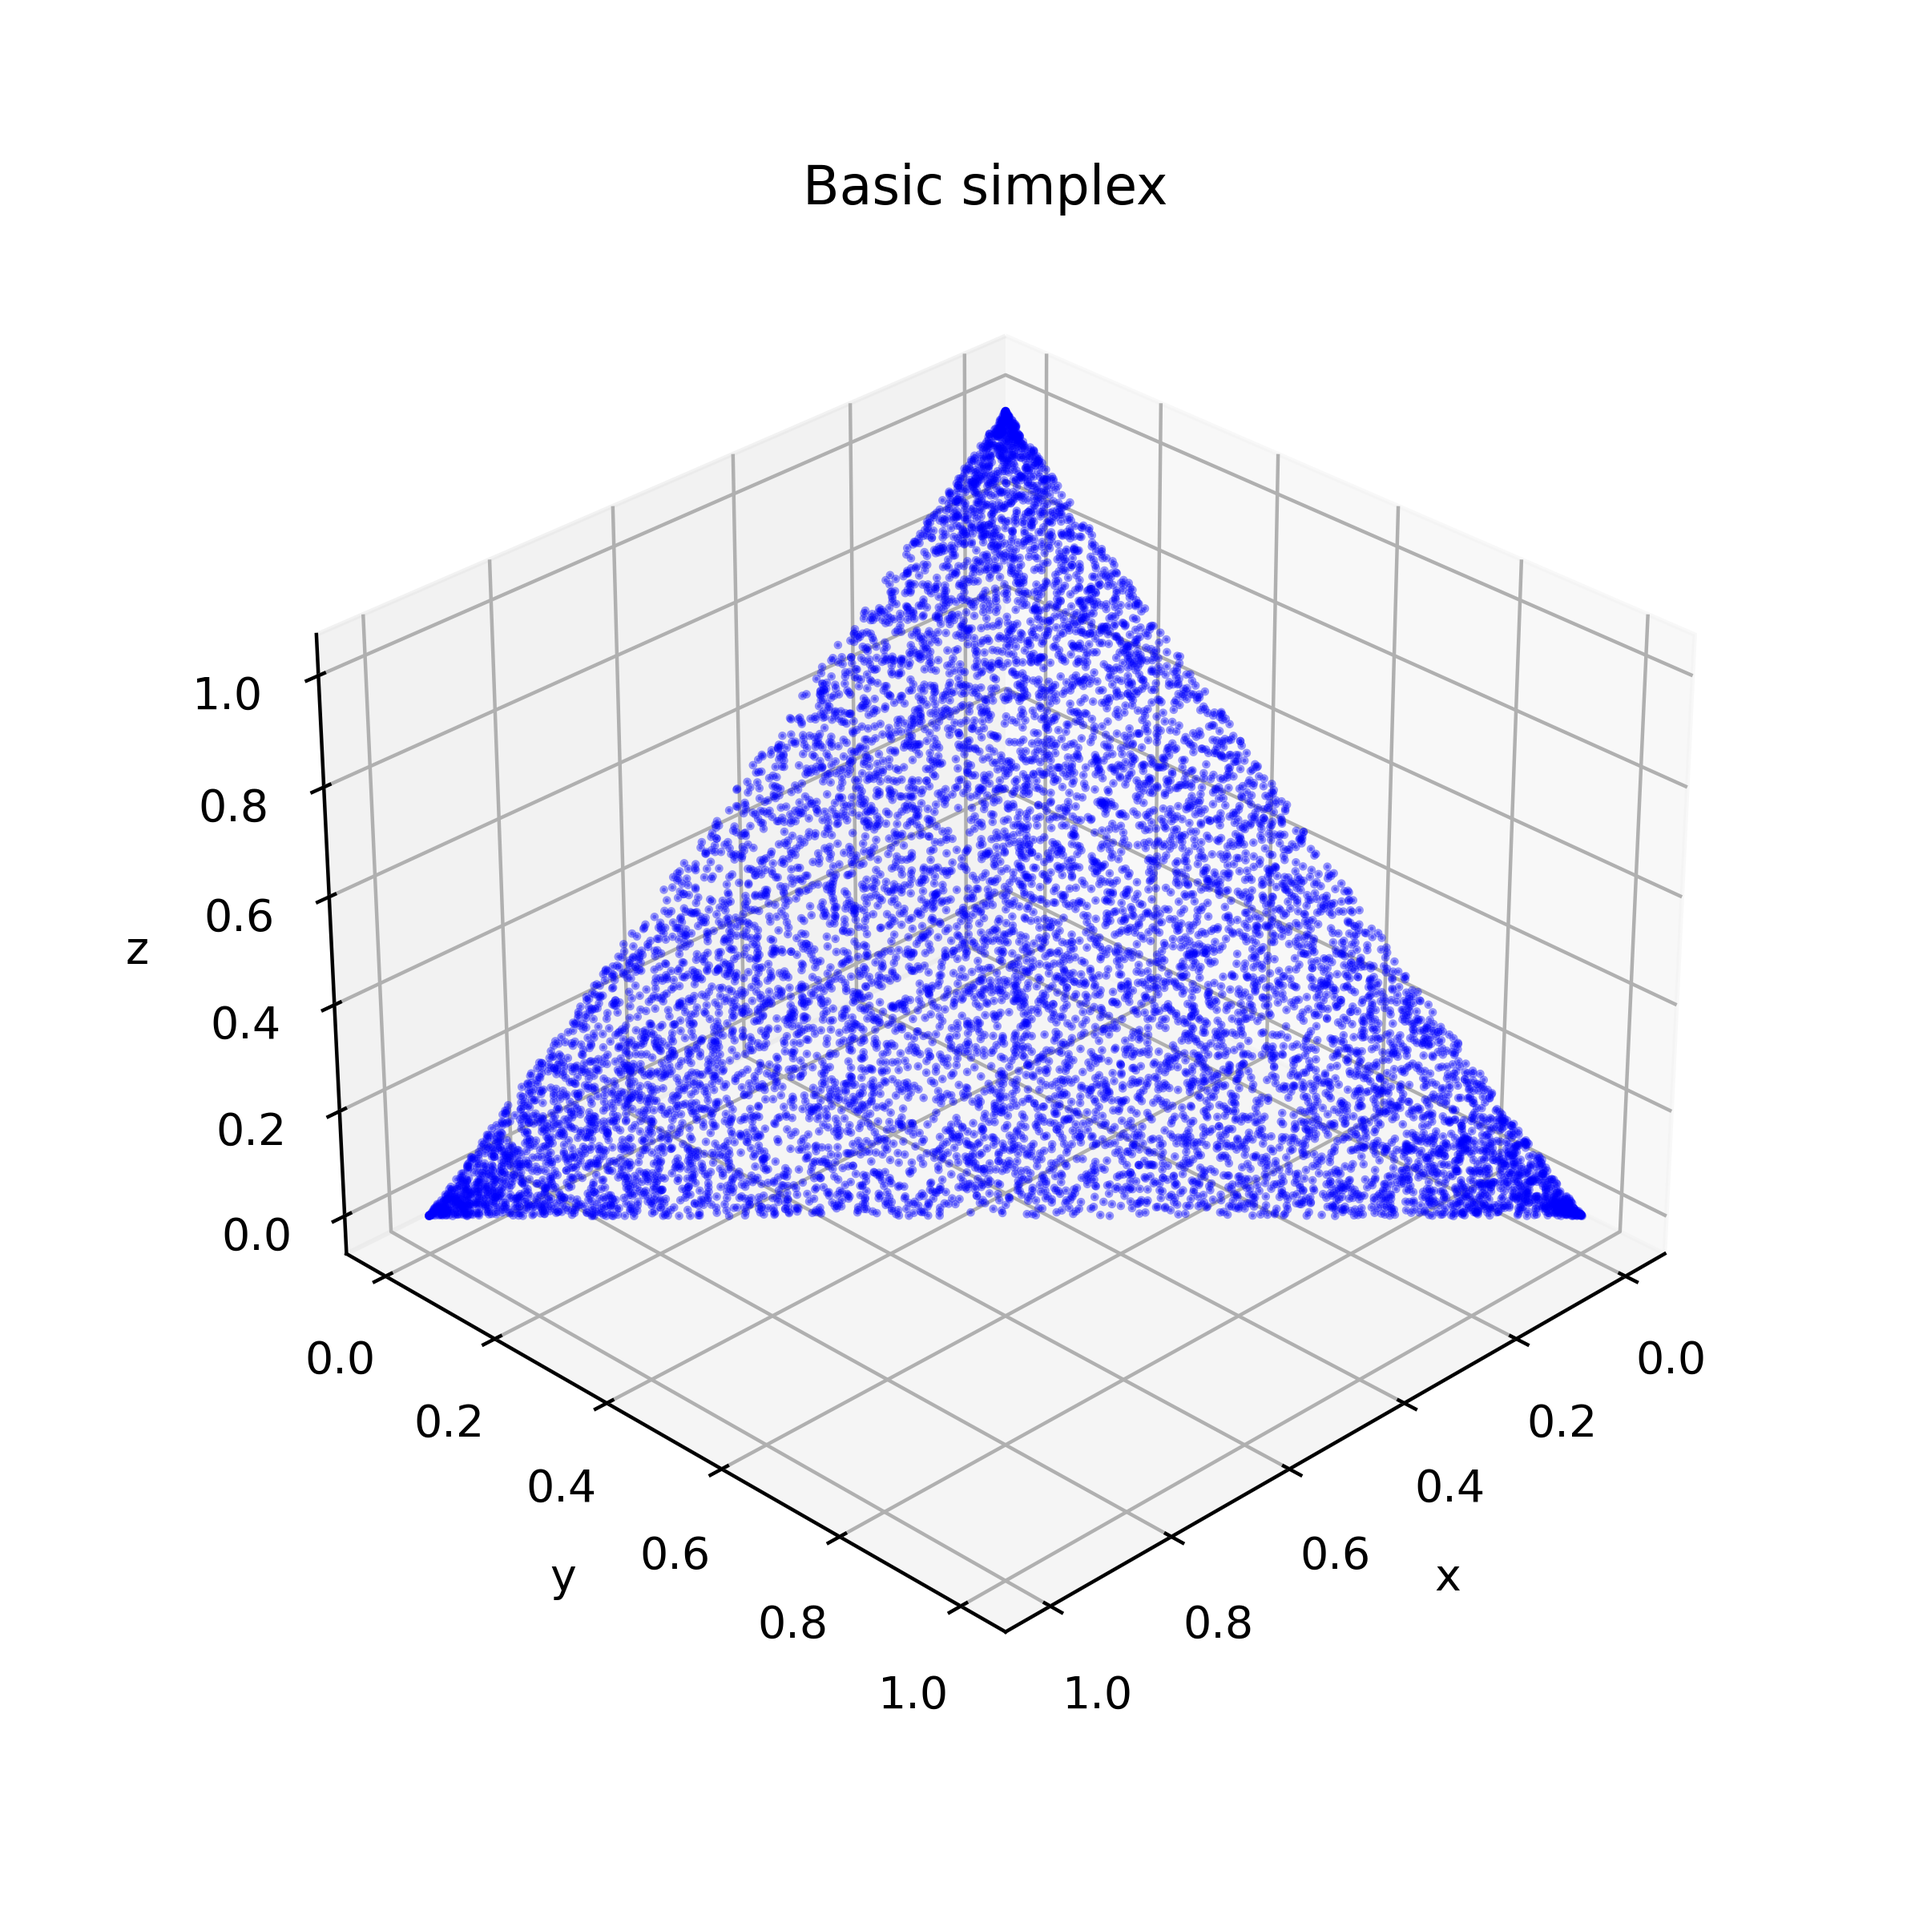
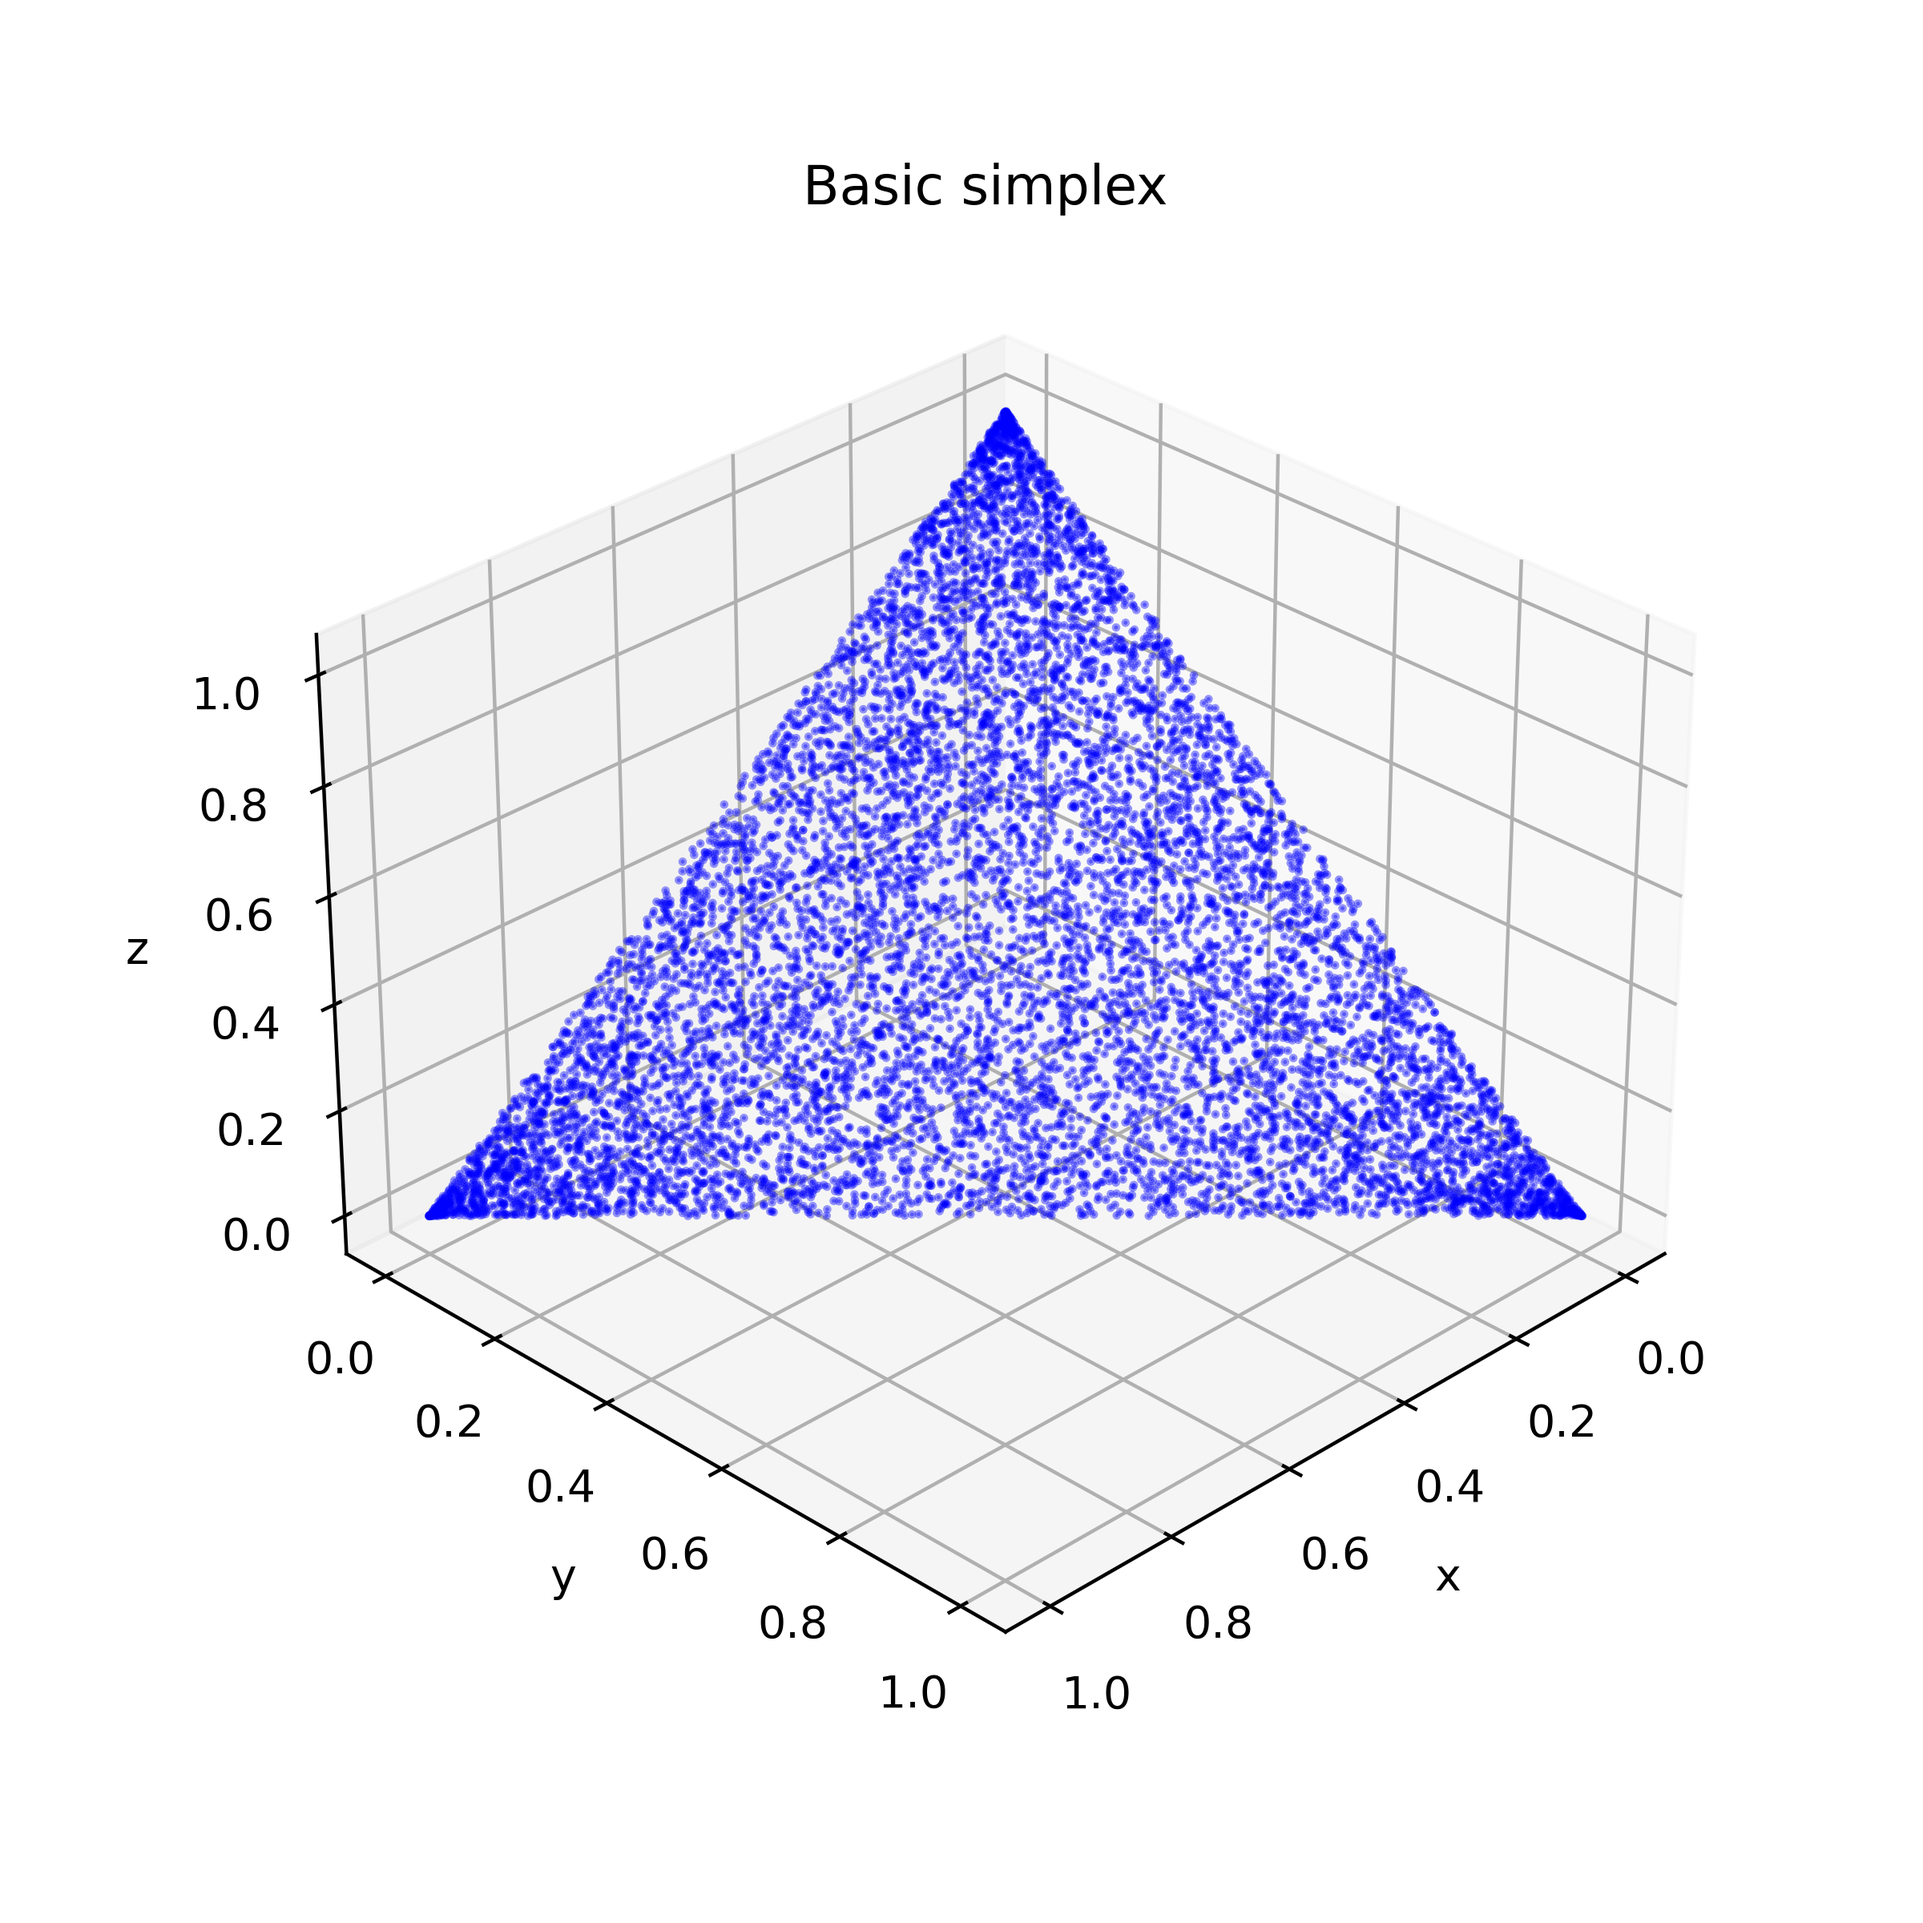
added bad simplex method

Changed region(s): [[0.2188, 0.2188, 0.8125, 0.6562]]

diff --git a/random_poster/simplex.py b/random_poster/simplex.py
@@ -1,5 +1,10 @@
 import numpy as np
 
+def bad_simplex(n):
+    ''' bad method for random simplex generation. '''
+    x = np.random.rand(n)
+    return x / np.sum(x)
+
 def stick_breaking_simplex(n):
     ''' n-dimensional simplex generated by stick breaking. '''
     x = np.random.rand(n-1)
@@ -39,6 +44,7 @@ def exponential_simplex(n):
     return x / np.sum(x)
 
 SIMPLEX_METHODS = dict(
+    bad=bad_simplex,
     stick=stick_breaking_simplex, 
     basic=basic_simplex,
     roik=roik_simplex,
@@ -47,6 +53,7 @@ SIMPLEX_METHODS = dict(
 )
 
 SIMPLEX_NAMES = [
+    'Bad',
     'Stick-breaking',
     'Basic',
     'Roik',
